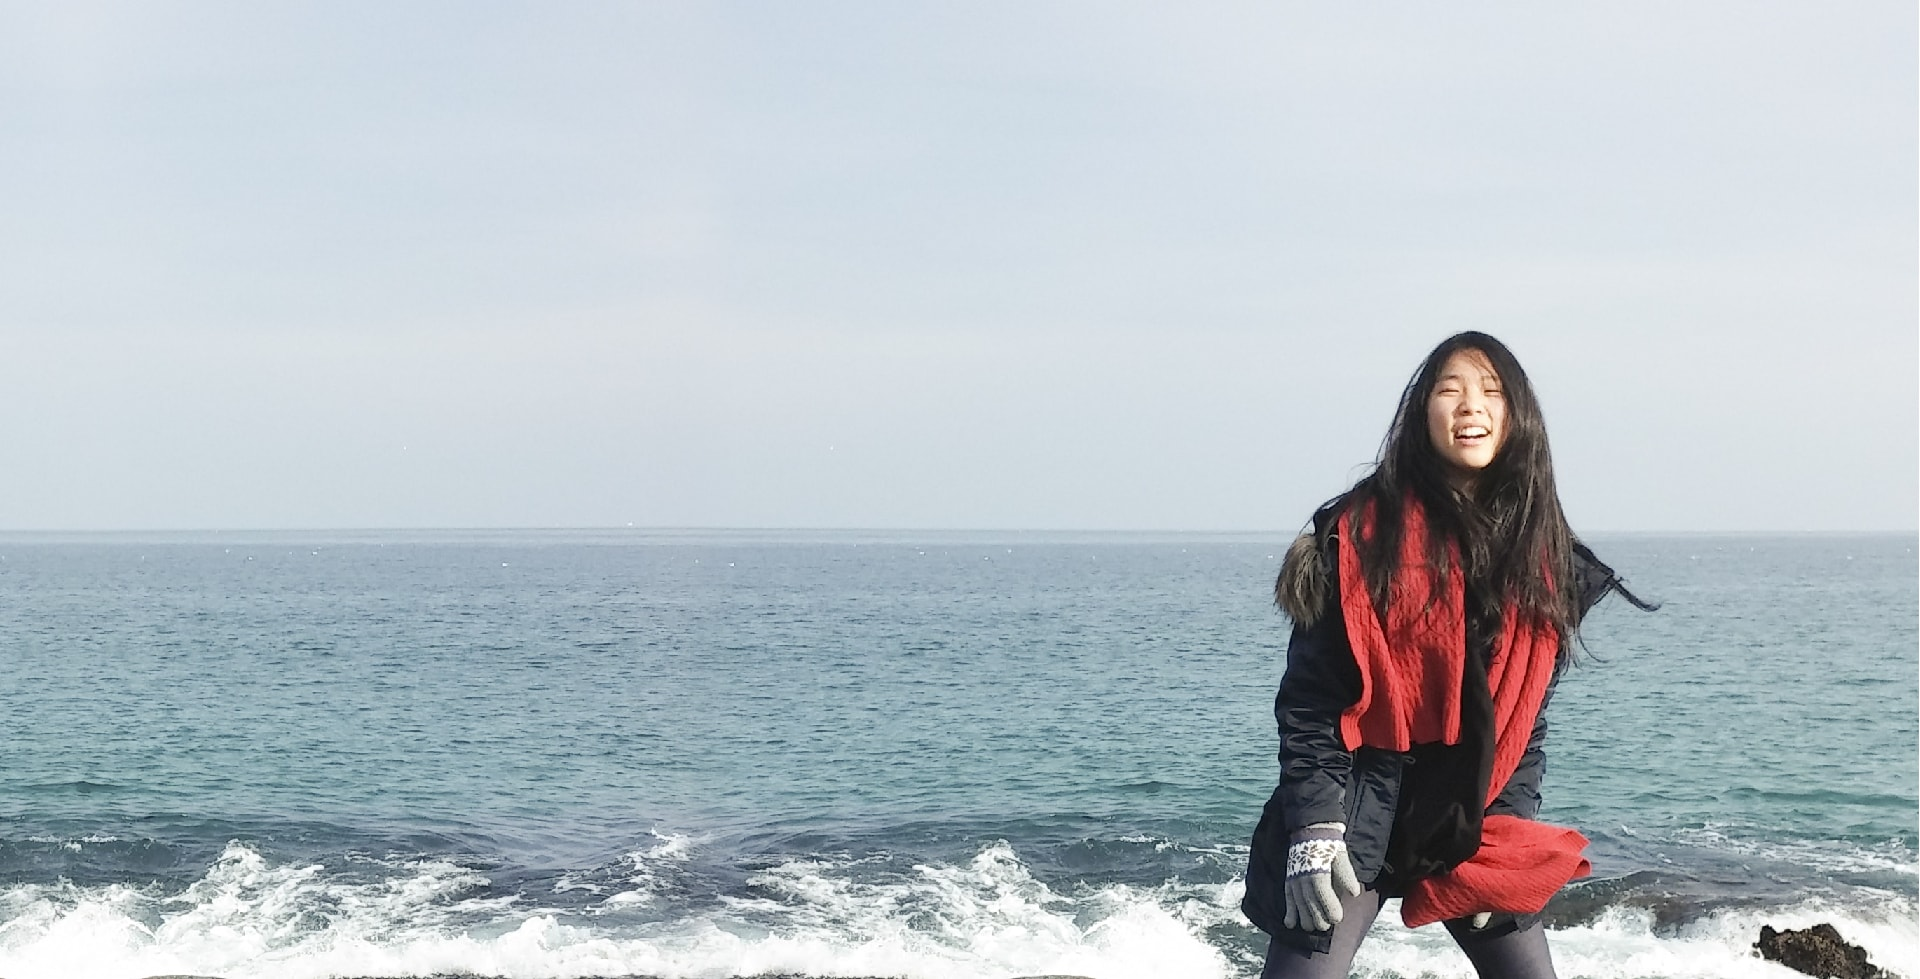
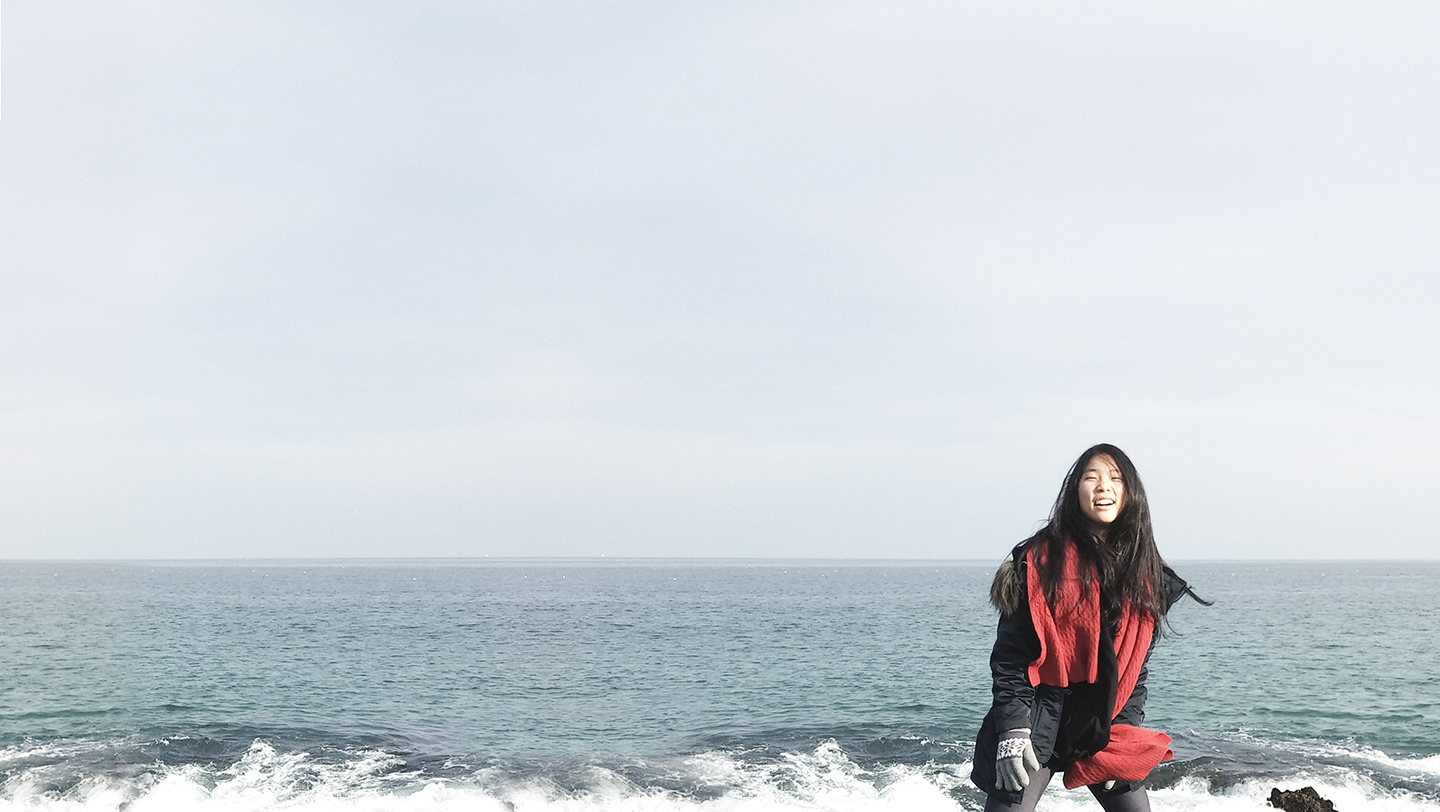
Created new gallery layout, added direct links on each pages, and changed two main images on index.html.

diff --git a/stylesheet/global.css b/stylesheet/global.css
@@ -99,6 +99,7 @@ margin: 0 auto 0 auto;
 
 .parallax-window {
 background:url(.././images/end2.jpg) 50% 0 repeat;
+image-rendering: crisp-edges;
 background-size:cover;
 min-height:800px;
 }
@@ -239,7 +240,7 @@ margin:8% auto;
 }
 
 #abt {
-background:url(../test9.jpg) 50% 0 repeat;
+background:url(.././images/end1.jpg) 50% 0 repeat;
 background-size:cover;
 min-height:800px;
 /*background-color:#83bdda;*/
@@ -276,158 +277,6 @@ background-color:#ea4c89;
 #github {
 background-color:#171515;
 }
-
-/* index.html frame section starts */
-.cover {
-text-align:center;
-max-width:1000px;
-margin:auto;
-}
-
-.frame {
-position:relative;
-margin:0 auto;
-}
-
-.grid {
-display:inline-block;
-position:relative;
-margin:-4px auto;
-}
-
-.cover figure {
-position:relative;
-float:left;
-overflow:hidden;
-min-width:320px;
-max-width:500px;
-width:50%;
-background:#668bff;
-cursor:pointer;
-margin:0;
-}
-
-.cover figure img {
-position:relative;
-display:block;
-/*min-height:50%;*/
-max-width:100%;
-opacity:0.8;
-}
-
-.cover figure figcaption {
-color:#fff;
-font-size:1em;
--webkit-backface-visibility:hidden;
-backface-visibility:hidden;
-padding:0;
-}
-
-.cover figure figcaption::before,.cover figure figcaption::after {
-pointer-events:none;
-}
-
-.cover figure figcaption,.cover figure figcaption > a {
-position:absolute;
-top:0;
-left:0;
-width:100%;
-/*height:100%;*/
-}
-
-.cover figure figcaption > a {
-z-index:1000;
-text-indent:200%;
-white-space:nowrap;
-font-size:0;
-opacity:0;
-}
-
-.cover figure h6,.cover figure p {
-margin:0;
-text-align:center;
-}
-
-p.label {
-font-family:'Roboto', Sans-Serif;
-font-weight:300;
-font-size: 1.1em;
-color:#fff;
-}
-
-figure.frame img {
-opacity:1;
--webkit-transition:opacity 0.3s, -webkit-transform 0.3s;
-transition:opacity 0.3s, transform 0.3s;
--webkit-transform:scale(1.2);
-transform:scale(1.2);
-margin:auto;
-}
-
-figure.frame:hover img {
-opacity:0.1;
--webkit-transform:scale(1.15);
-transform:scale(1.15);
-}
-
-figure.frame h6 {
-opacity:0;
-margin-top:25%;
--webkit-transition:opacity 0.3s, -webkit-transform 0.3s;
-transition:opacity 0.3s, transform 0.3s;
--webkit-transform:translate3d(0,20px,0);
-transform:translate3d(0,20px,0);
-}
-
-figure.frame p.label {
-border:0;
-opacity:0;
--webkit-transition:opacity 0.3s, -webkit-transform 0.3s;
-transition:opacity 0.3s, transform 0.3s;
--webkit-transform:translate3d(0,20px,0) scale(1.1);
-transform:translate3d(0,20px,0) scale(1.1);
-margin:1em 0 0;
-padding:1em 2em;
-}
-
-figure.frame:hover h6 {
-opacity:1;
--webkit-transition:opacity 0.3s, -webkit-transform 0.3s;
-transition:opacity 0.3s, transform 0.3s;	
--webkit-transform:translate3d(0,0,0);
-transform:translate3d(0,0,0);
-}
-
-figure.frame:hover p.label {
-opacity:1;
--webkit-transform:translate3d(0,0,0) scale(1);
-transform:translate3d(0,0,0) scale(1);
-}
-
-/* index.html frame section < 1024px starts */
-@media screen and (max-width: 1024px) {
-.grid {
-width:100%;
-}
-
-.cover figure {
-width:100%;
-float:none;
-display:inline-block;
-margin:-4px 0;
-}
-
-figure.frame h6 {
-margin-top:23%;
-font-size:1.2em;
-}
-
-figure.frame p.label {
-font-size:1em;
-}
-}
-/* index.html frame section < 1024px ends */
-/* index.html frame section ends */
 
 
 @media screen and (max-width:800px) {

diff --git a/index.html b/index.html
@@ -18,6 +18,7 @@ Please enjoy! -->
 	  })(window,document,'script','//www.google-analytics.com/analytics.js','ga');
 
 	  ga('create', 'UA-49851605-1', 'auto');
+	  ga('require', 'index');
 	  ga('send', 'pageview');
 
 	</script>
@@ -107,6 +108,7 @@ margin:0 auto;
 font-size: 1.1em;
 text-align: center;
 opacity:0;
+color: #fff;
 -webkit-transition:opacity 0.3s, -webkit-transform 0.3s;
 transition:opacity 0.3s, transform 0.3s;
 -webkit-transform:translate3d(0,20px,0) scale(1.1);
@@ -226,8 +228,8 @@ transform:translate3d(0,0,0) scale(1);
 <!-- Intro division -->
 <div id="ntr" class="parallax-window" data-type="background" data-speed="10">
 	<div id="introduction">
-		<h2 class="greetings">Minjong Lee,</h2>
-		<p class="contents dark">A San Francisco based UX Designer, who loves to explore, design, and create meaningful interactive experience. Currently working <a href="http://inflection.com">@Inflection,Inc.</a> designing a product that supports a secure web experience.</p>
+		<h2 class="greetings">Minjong Lee</h2>
+		<p class="contents dark">a San Francisco based UX Designer, who loves to explore, design, and create meaningful interactive experience. Currently working <a href="http://inflection.com">@Inflection,Inc.</a> designing a product that supports a secure web experience.</p>
 		<div class="btn">
 			<a id="btn-first" class="btn-item" href="#ftr">Take a look at her projects</a>
 		</div>
@@ -291,7 +293,7 @@ transform:translate3d(0,0,0) scale(1);
 						<img src="./general/gd_sq.png" alt="image">
 						<figcaption>
 							<h6>Graphic Design</h6>
-							<p class="label">Coming Soon</p>
+							<p class="label">Pixel caring design works</p>
 						</figcaption>
 					</figure>
 					</a>
@@ -369,8 +371,8 @@ transform:translate3d(0,0,0) scale(1);
 	<div class="box">
 		<div class="sub-title">About Minjong</div>
 		<p class="contents thick dark">Minjong is a designer by the day, a learner by the evening. She loves anything enables her to create intuitive and informative experience.
-		<br><span class="bold">Check out my <a class="link" href="http://minjonglee.com/general/Minjong_Lee_Resume_110415.pdf">Resume</a> or Click here to <a class="link" href="mailto:mjlst89@gmail.com">email me </a></span></p>
-		<h5>Connect with me elsewhere,</h5>
+		<br><span class="bold">Check out my <a class="link" href="http://minjonglee.com/general/Minjong_Lee_Resume_110415.pdf">Resume</a> or Click here to <a class="link" href="mailto:mjlst89@gmail.com">email her</a>.</span></p>
+		<h5>Connect with her also in,</h5>
 		<a href="https://www.linkedin.com/in/minjonglee/"><div class="icon"><i class="fa fa-linkedin-square fa-2x"></i></div></a>
 		<a href="https://twitter.com/mjlst/"><div class="icon"><i class="fa fa-twitter-square fa-2x"></i></div></a>
 		<a href="https://github.com/mjlst"><div class="icon"><i class="fa fa-github-square fa-2x"></i></div></a>

diff --git a/datavis/temperaturemap.html b/datavis/temperaturemap.html
@@ -5,9 +5,12 @@ If you are looking for someone who is passionate about designing, making and bui
 Please enjoy! -->
 <head>
 	<meta content="text/html;charset=utf-8" http-equiv="Content-Type">
-	<title>Minjong Lee, Playground</title>
+	<title>Minjong Lee, UX Designer</title>
 	<!-- Meta Viewport -->
 	<meta name="viewport" content="width=device-width, initial-scale=1">
+	<link rel="stylesheet" href="./font-awesome-4.3.0/css/font-awesome.min.css">
+	<!-- Master stylesheet -->
+	<link rel="stylesheet" href="./../master.css">
 	<link href='http://fonts.googleapis.com/css?family=Roboto:300,500' rel='stylesheet' type='text/css'>
 	<!-- Link necessary libraries -->
 	<script src="https://ajax.googleapis.com/ajax/libs/jquery/2.1.3/jquery.min.js"></script>
@@ -18,6 +21,7 @@ Please enjoy! -->
 	  })(window,document,'script','//www.google-analytics.com/analytics.js','ga');
 
 	  ga('create', 'UA-49851605-1', 'auto');
+	  ga('require', 'tempmap');
 	  ga('send', 'pageview');
 	</script>
 
@@ -35,7 +39,7 @@ Please enjoy! -->
 	}
 	.input, .inactive{
 	width: 120px;
-	margin-right: 20px;
+	margin: 10px 4px 10px 4px;
 	padding: 14px;
 	text-align: center;
 	display: inline-block;
@@ -105,8 +109,8 @@ Please enjoy! -->
 	left:0;
 	right:0;
 	}
-	a {
-	color: #ff0000;
+	a.linked {
+	color: #334f87;
 	}
 	p {
 	color: #232323;
@@ -116,11 +120,18 @@ Please enjoy! -->
 	<!-- Chart CSS styling starts -->
 </head>
 <body>
-<div style="width: 80%; padding: 20px 10% 20px 10%;">
+<header class="nav bged">
+	<div id="mobile-nav"><i class="fa fa-bars fa-2x"></i></div>
+	<h1 id="logo"><a href="./../index.html">Minjong Lee Portfolio</a></h1>
+	<ul class="nav-group">
+		<li><a href="./../rigit.html">See also : Rig-It Application&nbsp;&nbsp;<i class="fa fa-long-arrow-right"></i></a></li>
+	</ul>
+</header>
+<div style="width: 80%; padding: 100px 10% 20px 10%; position:relative;">
 <h2>2014 San Francisco & Pittsburgh Temperature Map</h2>
-<p>Data collected from : <a href="http://w2.weather.gov/climate/">http://w2.weather.gov/climate/</a> and
-<a href="http://www.wunderground.com/history">http://www.wunderground.com/history</a></p>
-<p>Click button below to compare the temperature maps of each city.
+<p class="description cntr">Data collected from : <a class="linked" href="http://w2.weather.gov/climate/">http://w2.weather.gov/climate/</a> and
+<a class="linked" href="http://www.wunderground.com/history">http://www.wunderground.com/history</a></p>
+<p class="description cntr">Click button below to see temperature map of each city.
 	<div class="input inactive" name="pitButton" type="button" value="pittsburgh" onclick="updatePitData()" />
 		Pittsburgh
 	</div>

diff --git a/rivermatters.html b/rivermatters.html
@@ -19,6 +19,7 @@ Please enjoy! -->
 	  })(window,document,'script','//www.google-analytics.com/analytics.js','ga');
 
 	  ga('create', 'UA-49851605-1', 'auto');
+	  ga('require', 'rivermatters');
 	  ga('send', 'pageview');
 	</script>
 <!-- Project timeline styling 1/4-->

diff --git a/graphicdesign.html b/graphicdesign.html
@@ -19,6 +19,7 @@ Please enjoy! -->
 	  })(window,document,'script','//www.google-analytics.com/analytics.js','ga');
 
 	  ga('create', 'UA-49851605-1', 'auto');
+	  ga('require', 'graphicDesign');
 	  ga('send', 'pageview');
 	</script>
 <!-- Link for exploration -->

diff --git a/ent.html b/ent.html
@@ -19,6 +19,7 @@ Please enjoy! -->
 	  })(window,document,'script','//www.google-analytics.com/analytics.js','ga');
 
 	  ga('create', 'UA-49851605-1', 'auto');
+	  ga('require', 'entertainment');
 	  ga('send', 'pageview');
 
 	</script>

diff --git a/waterworks.html b/waterworks.html
@@ -19,6 +19,7 @@ Please enjoy! -->
 	  })(window,document,'script','//www.google-analytics.com/analytics.js','ga');
 
 	  ga('create', 'UA-49851605-1', 'auto');
+	  ga('require', 'waterworks');
 	  ga('send', 'pageview');
 
 	</script>

diff --git a/bookclip.html b/bookclip.html
@@ -19,6 +19,7 @@ Please enjoy! -->
 	  })(window,document,'script','//www.google-analytics.com/analytics.js','ga');
 
 	  ga('create', 'UA-49851605-1', 'auto');
+	  ga('require', 'bookclip');
 	  ga('send', 'pageview');
 
 	</script>

diff --git a/tripwith.html b/tripwith.html
@@ -19,6 +19,7 @@ Please enjoy! -->
 	  })(window,document,'script','//www.google-analytics.com/analytics.js','ga');
 
 	  ga('create', 'UA-49851605-1', 'auto');
+	  ga('require', 'tripwith');
 	  ga('send', 'pageview');
 
 	</script>

diff --git a/charton.html b/charton.html
@@ -19,6 +19,7 @@ Please enjoy! -->
 	  })(window,document,'script','//www.google-analytics.com/analytics.js','ga');
 
 	  ga('create', 'UA-49851605-1', 'auto');
+	  ga('require', 'charton');
 	  ga('send', 'pageview');
 
 	</script>

diff --git a/bcapp.html b/bcapp.html
@@ -19,6 +19,7 @@ Please enjoy! -->
 	  })(window,document,'script','//www.google-analytics.com/analytics.js','ga');
 
 	  ga('create', 'UA-49851605-1', 'auto');
+	  ga('require', 'bcapp');
 	  ga('send', 'pageview');
 
 	</script>

diff --git a/rigit.html b/rigit.html
@@ -19,6 +19,7 @@ Please enjoy! -->
 	  })(window,document,'script','//www.google-analytics.com/analytics.js','ga');
 
 	  ga('create', 'UA-49851605-1', 'auto');
+	  ga('require', 'rigit');
 	  ga('send', 'pageview');
 
 	</script>
